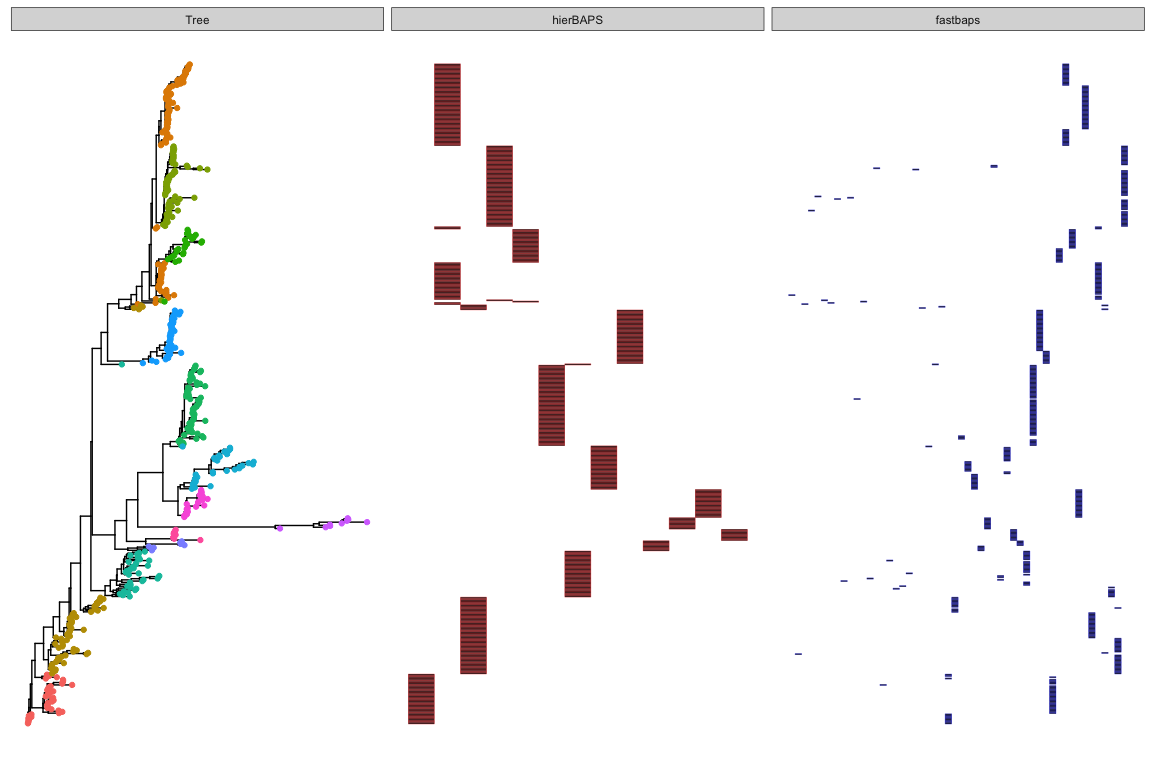
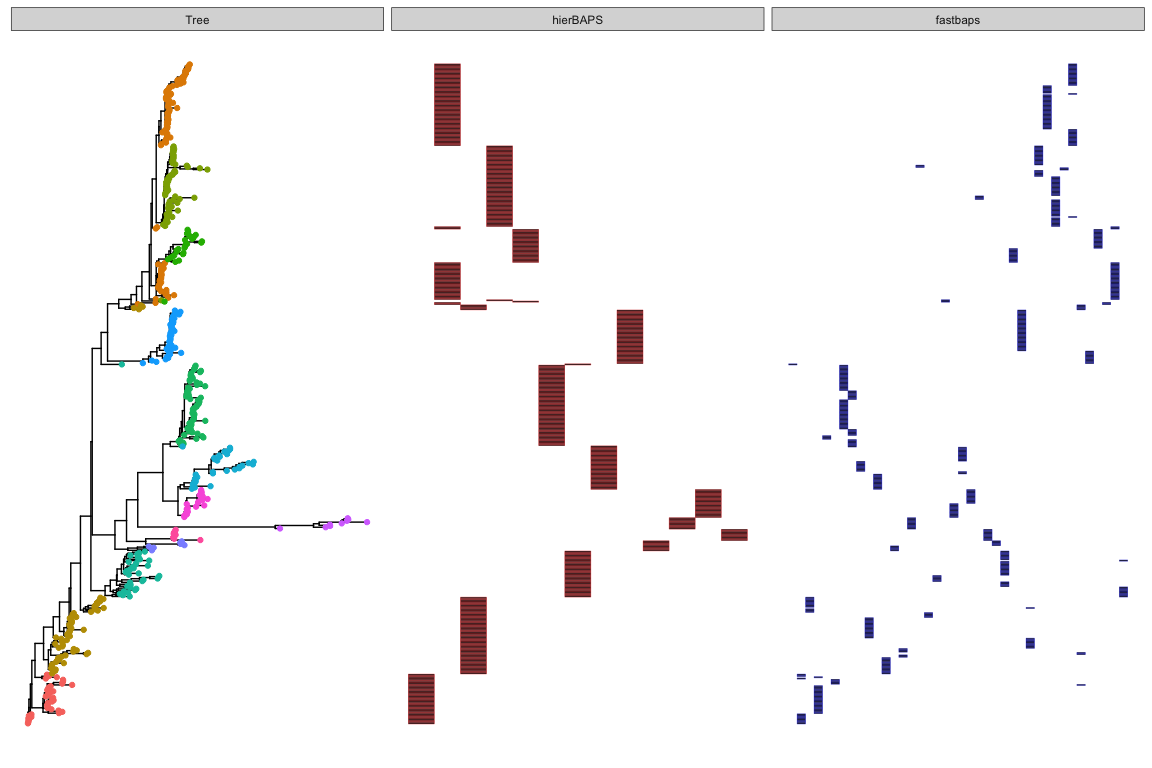
updated readme

diff --git a/README.md b/README.md
@@ -100,9 +100,9 @@ snp.matrix <- load_fasta(fasta.file.name)
 hb.results <- hierBAPS(snp.matrix, max.depth = 2, n.pops = 20, quiet = TRUE)
 
 calc_marginal_llk(sparse.data, hb.results$partition.df$`level 1`)
-#> [1] -49596.48
+#> [1] -49592.83
 calc_marginal_llk(sparse.data, best.partition)
-#> [1] -49503.41
+#> [1] -49499.56
 ```
 
 We can also plot the output of the two algorithms along with a pre-calculated tree using ggtree (Yu et al. 2017).
@@ -130,7 +130,7 @@ We can compare this result to other priors, either flat or the population mean b
 
 ``` r
 sparse.data <- optimise_prior(sparse.data, type = "flat")
-#> [1] "Optimised hyperparameter: 0.2"
+#> [1] "Optimised hyperparameter: 0.02"
 
 baps.hc <- fast_baps(sparse.data)
 #> [1] "Calculating initial clustering..."
@@ -158,7 +158,7 @@ f2
 
 ``` r
 sparse.data <- optimise_prior(sparse.data, type = "hc")
-#> [1] "Optimised hyperparameter: 1.3"
+#> [1] "Optimised hyperparameter: 0.286"
 
 baps.hc <- fast_baps(sparse.data)
 #> [1] "Calculating initial clustering..."
@@ -189,83 +189,6 @@ we can also investigate multiple levels
 ``` r
 sparse.data <- import_fasta_sparse_nt(fasta.file.name, prior = "baps")
 multi <- multi_res_baps(sparse.data)
-#> [1] "Clustering at level 1"
-#> [1] "Calculating initial clustering..."
-#> [1] "Calculating initial dk values..."
-#> [1] "Clustering using hierarchical Bayesian clustering..."
-#> [1] "Calculating node marginal llks..."
-#> [1] "Finding best partition..."
-#> [1] "Clustering at level 2"
-#> [1] "Calculating initial clustering..."
-#> [1] "Calculating initial dk values..."
-#> [1] "Clustering using hierarchical Bayesian clustering..."
-#> [1] "Calculating node marginal llks..."
-#> [1] "Finding best partition..."
-#> [1] "Calculating initial clustering..."
-#> [1] "Calculating initial dk values..."
-#> [1] "Clustering using hierarchical Bayesian clustering..."
-#> [1] "Calculating node marginal llks..."
-#> [1] "Finding best partition..."
-#> [1] "Calculating initial clustering..."
-#> [1] "Calculating initial dk values..."
-#> [1] "Clustering using hierarchical Bayesian clustering..."
-#> [1] "Calculating node marginal llks..."
-#> [1] "Finding best partition..."
-#> [1] "Calculating initial clustering..."
-#> [1] "Calculating initial dk values..."
-#> [1] "Clustering using hierarchical Bayesian clustering..."
-#> [1] "Calculating node marginal llks..."
-#> [1] "Finding best partition..."
-#> [1] "Calculating initial clustering..."
-#> [1] "Calculating initial dk values..."
-#> [1] "Clustering using hierarchical Bayesian clustering..."
-#> [1] "Calculating node marginal llks..."
-#> [1] "Finding best partition..."
-#> [1] "Calculating initial clustering..."
-#> [1] "Calculating initial dk values..."
-#> [1] "Clustering using hierarchical Bayesian clustering..."
-#> [1] "Calculating node marginal llks..."
-#> [1] "Finding best partition..."
-#> [1] "Calculating initial clustering..."
-#> [1] "Calculating initial dk values..."
-#> [1] "Clustering using hierarchical Bayesian clustering..."
-#> [1] "Calculating node marginal llks..."
-#> [1] "Finding best partition..."
-#> [1] "Calculating initial clustering..."
-#> [1] "Calculating initial dk values..."
-#> [1] "Clustering using hierarchical Bayesian clustering..."
-#> [1] "Calculating node marginal llks..."
-#> [1] "Finding best partition..."
-#> [1] "Calculating initial clustering..."
-#> [1] "Calculating initial dk values..."
-#> [1] "Clustering using hierarchical Bayesian clustering..."
-#> [1] "Calculating node marginal llks..."
-#> [1] "Finding best partition..."
-#> [1] "Calculating initial clustering..."
-#> [1] "Calculating initial dk values..."
-#> [1] "Clustering using hierarchical Bayesian clustering..."
-#> [1] "Calculating node marginal llks..."
-#> [1] "Finding best partition..."
-#> [1] "Calculating initial clustering..."
-#> [1] "Calculating initial dk values..."
-#> [1] "Clustering using hierarchical Bayesian clustering..."
-#> [1] "Calculating node marginal llks..."
-#> [1] "Finding best partition..."
-#> [1] "Calculating initial clustering..."
-#> [1] "Calculating initial dk values..."
-#> [1] "Clustering using hierarchical Bayesian clustering..."
-#> [1] "Calculating node marginal llks..."
-#> [1] "Finding best partition..."
-#> [1] "Calculating initial clustering..."
-#> [1] "Calculating initial dk values..."
-#> [1] "Clustering using hierarchical Bayesian clustering..."
-#> [1] "Calculating node marginal llks..."
-#> [1] "Finding best partition..."
-#> [1] "Calculating initial clustering..."
-#> [1] "Calculating initial dk values..."
-#> [1] "Clustering using hierarchical Bayesian clustering..."
-#> [1] "Calculating node marginal llks..."
-#> [1] "Finding best partition..."
 
 plot.df <- data.frame(id = colnames(sparse.data$snp.matrix), val = hb.results$partition.df$`level 1`, 
     fastbaps = multi$`Level 1`, fastbaps2 = multi$`Level 2`, stringsAsFactors = FALSE)
@@ -333,7 +256,7 @@ best.partition.ward <- best_baps_partition(sparse.data, h)
 #> [1] "Calculating node marginal llks..."
 #> [1] "Finding best partition..."
 calc_marginal_llk(sparse.data, best.partition.ward)
-#> [1] -49621.05
+#> [1] -49609.02
 ```
 
 References
